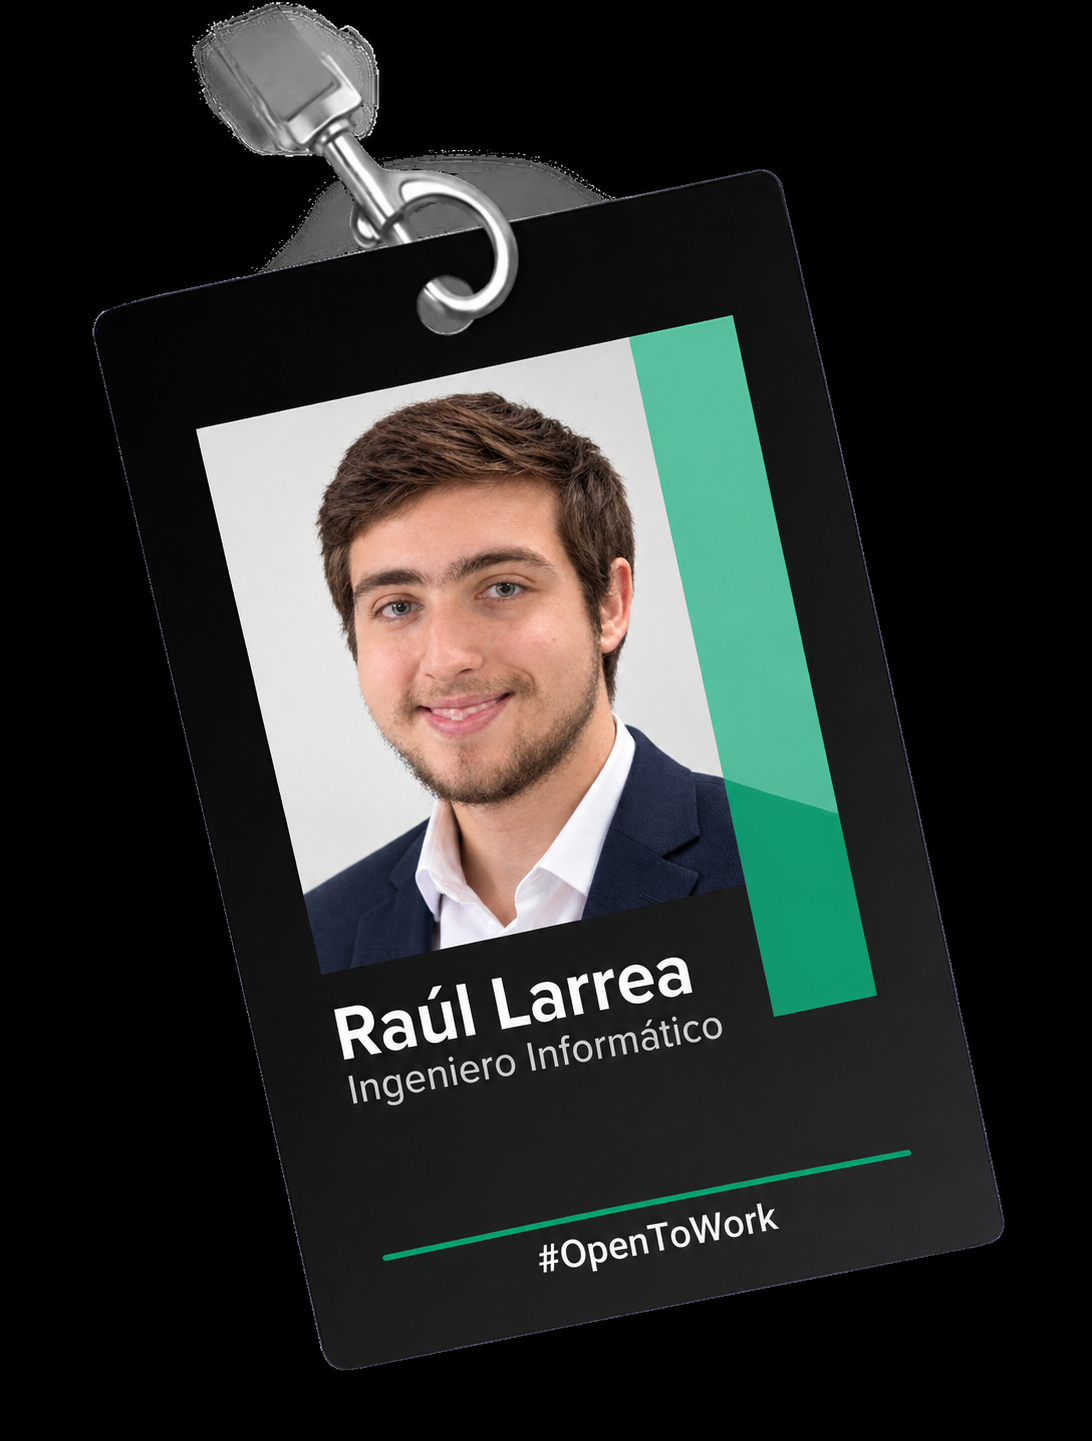
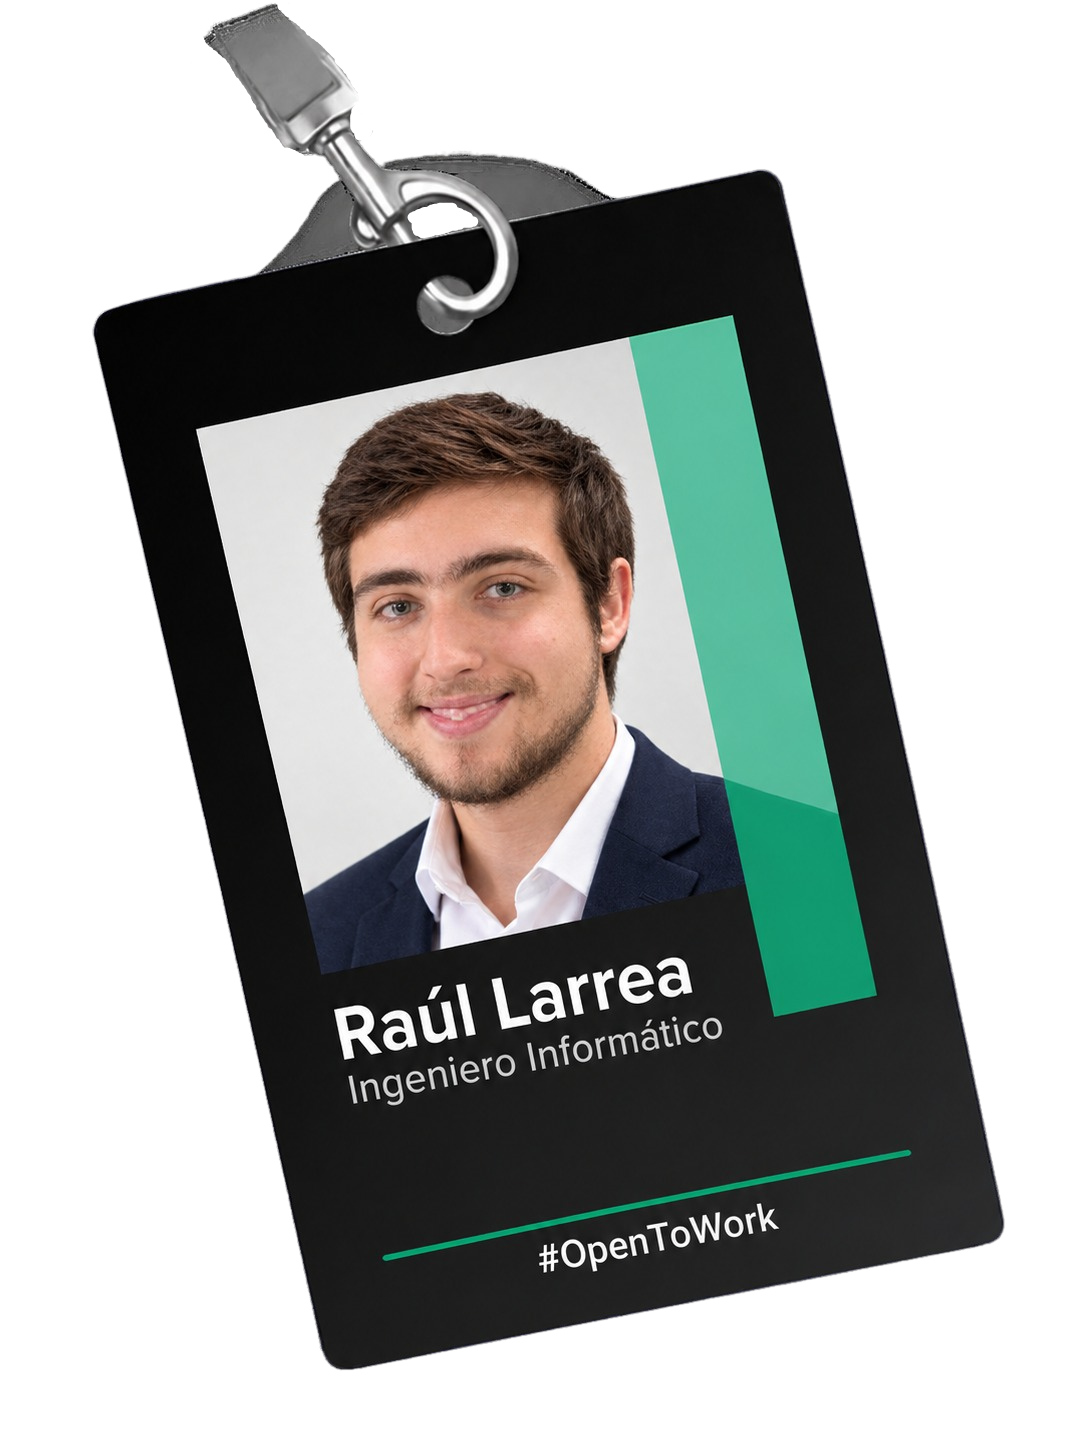
Actualiza descripciones y textos en componentes, añade nuevas imágenes

diff --git a/data/sobremiData.js b/data/sobremiData.js
@@ -1,28 +1,28 @@
 export const sobremiData = {
     titulo: "¿Quién Soy?",
-    descripcion1: "Soy Raúl Larrea, y mi pasión por la tecnología, la programación y el diseño me impulsa cada día. Como desarrollador web, me he especializado en el fascinante mundo del FrontEnd. ",
-    descripcion2: "Disfruto desafiando los límites y explorando nuevas tecnologías para ofrecer soluciones creativas y efectivas.",
-    descripcion3: "Innovador, proactivo y con capacidad para diseñar, crear y mantener sitios web, atractivos e interactivos. Me adapto a las necesidades del equipo y me comprometo con los objetivos de trabajo establecidos.",
+    descripcion1: "Soy Raúl Larrea, graduado en Ingeniería Informática y apasionado por la tecnología y sus posibilidades. Me interesa comprender cómo funcionan los sistemas, explorar nuevas herramientas y encontrar soluciones a problemas de distinta naturaleza.",
+    descripcion2: "Me motiva seguir aprendiendo, afrontar nuevos retos y ampliar mis conocimientos en diferentes áreas de la informática.",
+    descripcion3: "Me considero una persona curiosa, analítica y comprometida, con ganas de crecer profesionalmente, aportar ideas y colaborar en proyectos donde la tecnología pueda marcar la diferencia.",
     imagen: "sobremi"
 }
 
 export const habilidadesData = [
     {
         id:1,
-        name: "UX/UI Design",
+        name: "Desarrollo de SW",
         icon: "uxdesign",
-        description: "Enfocado en comprender los usuarios, solucionar problemas y crear prototipos para experiencias digitales excepcionales"
+        description: "Me gusta convertir ideas en aplicaciones útiles y encontrar formas de hacer las cosas mejor."
     },
     {
         id:2,
-        name: "Ingeniero Informático",
+        name: "Ciberseguridad",
         icon: "frontend",
-        description: "Creación de interfaces de usuarios innovadoras con buenas prácticas, diseños responsives y optimizaciones del contenido"
+        description: "Me interesa entender cómo se pueden proteger los sistemas y anticiparse a posibles riesgos."
     },
     {
         id:3,
-        name: "Tecnologias",
+        name: "NUEVAS TECNOLOGÍAS",
         icon: "tecnologias",
-        description: "Stack de herramientas de diseño y lenguajes de desarrollo para ofrecer soluciones digitales de alto rendimiento"
+        description: "Siempre hay algo nuevo que explorar, aprender y llevar más allá."
     }
 ]

diff --git a/components/Contacto.js b/components/Contacto.js
@@ -78,7 +78,7 @@ export default function Contacto() {
                                 <path fillRule="evenodd" d="M11.54 22.351l.07.04.028.016a.76.76 0 00.723 0l.028-.015.071-.041a16.975 16.975 0 001.144-.742 19.58 19.58 0 002.683-2.282c1.944-1.99 3.963-4.98 3.963-8.827a8.25 8.25 0 00-16.5 0c0 3.846 2.02 6.837 3.963 8.827a19.58 19.58 0 002.682 2.282 16.975 16.975 0 001.145.742zM12 13.5a3 3 0 100-6 3 3 0 000 6z" clipRule="evenodd" />
                                 </svg>
                             </div>
-                            <p className='text-white text-sm font-semibold'>El Salvador</p>
+                            <p className='text-white text-sm font-semibold'>Valencia, España</p>
                         </div>
                         <img className='w-auto h-56' src="/img/redes.svg" alt="imagen de redes" />
                         <p className='mb-3 mt-3 text-2xl text-white text-center md:text-left font-bold tracking-tight'>Redes Sociales</p>

diff --git a/components/Footer.js b/components/Footer.js
@@ -10,7 +10,7 @@ export default function Footer() {
                         <a href="#">
                             <Image src="/img/logo.svg" width={110} height={35} alt="Logo Raúl Larrea" />
                         </a>
-                        <p className="text-white ">Transformando ideas en realidad a traves de codigo limpio y soluciones innovadoras</p>
+                        <p className="text-white ">Apasionado por la tecnología, los sistemas y la creación de soluciones digitales eficientes.</p>
                         <ul className='flex gap-4 mt-4'>
                         {redesData.map(red => (
                             <li  key={red.id} className='cursor-pointer transition-all duration-300 hover:scale-150'>

diff --git a/data/headerData.js b/data/headerData.js
@@ -1,7 +1,7 @@
 export const headerData = {
     nombre: "Raúl Larrea",
     titulo: "Ingeniero Informático",
-    descripcion: "Apasionado por la tecnología ",
+    descripcion: "Apasionado por la tecnología, los sistemas y la creación de soluciones digitales eficientes.",
     imagen: "raullarrea.png",
 }
 
